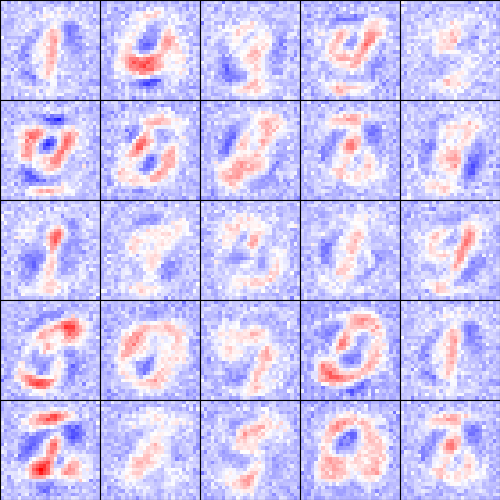
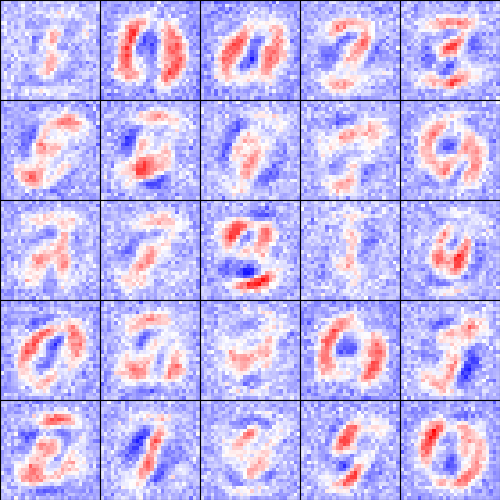
Added +1 on iter

diff --git a/lab4/lab4_code/code/rbm.py b/lab4/lab4_code/code/rbm.py
@@ -48,7 +48,7 @@ class RestrictedBoltzmannMachine():
         self.figure_period = 1000
 
         self.rf = {  # receptive-fields. Only applicable when visible layer is input data
-            "period": 5000,  # iteration period to visualize
+            "period": 10,  # iteration period to visualize
             "grid": [5, 5],  # size of the grid
             # pick some random hidden units
             "ids": np.random.randint(0, self.ndim_hidden, 25)
@@ -77,6 +77,7 @@ class RestrictedBoltzmannMachine():
         # print(self.weight_vh.shape)
         loss_vec = []
         it_vec = []
+        n_iterations += 1
         for it in range(n_iterations):
             reconstructed_input = np.zeros(visible_trainset.shape)
             for batch in range(n_batch):
@@ -108,8 +109,9 @@ class RestrictedBoltzmannMachine():
                 # if batch % self.figure_period == 0:
 
             # visualize once in a while when visible layer is input images
-
+            # print(it % self.rf["period"])
             if it % self.rf["period"] == 0 and self.is_bottom:
+                # print('in yo bi')
 
                 viz_rf(weights=self.weight_vh[:, self.rf["ids"]].reshape(
                     (self.image_size[0], self.image_size[1], -1)), it=it, grid=self.rf["grid"])

diff --git a/lab4/lab4_code/code/run.py b/lab4/lab4_code/code/run.py
@@ -13,7 +13,7 @@ if __name__ == "__main__":
 
     print ("\nStarting a Restricted Boltzmann Machine..")
 
-    hidden_vec = [200, 250, 300, 350, 400, 450, 500]
+    hidden_vec = [500]
     plt.figure('Learning Curves')
     for ndim_hidden in hidden_vec:
         rbm = RestrictedBoltzmannMachine(ndim_visible=image_size[0]*image_size[1],
@@ -27,7 +27,7 @@ if __name__ == "__main__":
 
         # print ("shape of training data: ",train_imgs.shape)
         loss_vec, it_vec = rbm.cd1(
-            visible_trainset=train_imgs, n_iterations=10)
+            visible_trainset=train_imgs, n_iterations=20)
         plt.plot(it_vec, loss_vec, label='Hidden Units: {}'.format(ndim_hidden))
         print('ndim hidden Units:{} \t loss value: {}'.format(
             ndim_hidden, loss_vec[-1]))
